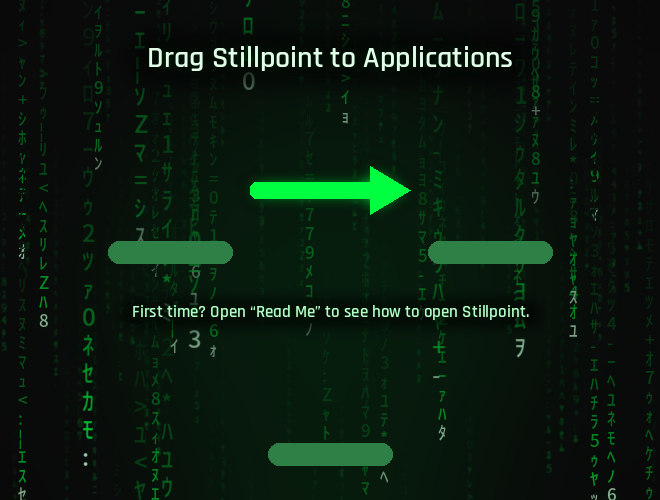
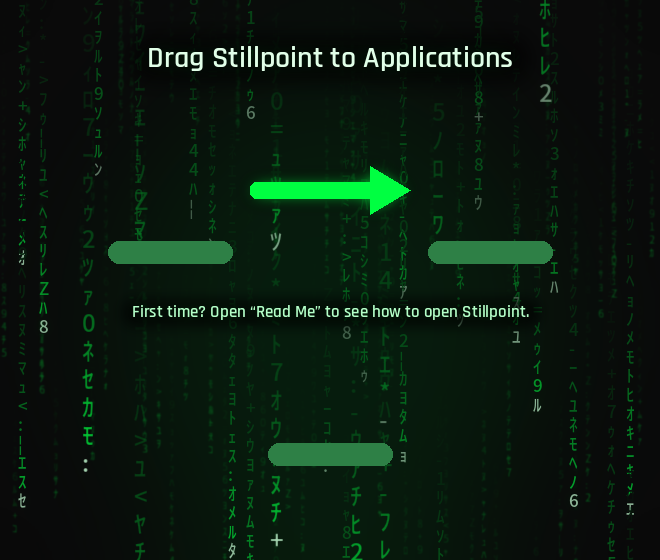
fix(release): taller dmg window (560 pt) so the Read Me name is visible
The window height includes the title bar and the Finder path bar.

Claude-Session: https://claude.ai/code/session_01Lw62sEH6vu6xxge8ok66p6

diff --git a/scripts/make_installer_art.py b/scripts/make_installer_art.py
@@ -39,8 +39,10 @@ G1, G2, G3, G4, G5 = (0, 255, 65), (0, 204, 51), (0, 153, 38), (0, 102, 25), (0,
 HEAD = (200, 255, 214)
 GLYPHS = [chr(c) for c in range(0xFF66, 0xFF9E)] + list("0123456789") + list("Z:=*+-<>¦")
 
-# Janela do .dmg, em pontos (o arquivo @2x tem o dobro)
-DMG_W, DMG_H = 660, 500
+# Janela do .dmg, em pontos (o arquivo @2x tem o dobro). A altura inclui a barra de título
+# (~32 pt) e, se a pessoa usa, a barra de caminho do Finder (~28 pt): com 560, o Read Me
+# aparece inteiro nos dois casos (medido no macOS 26 em 2026-10-14).
+DMG_W, DMG_H = 660, 560
 APP_POS, APPS_POS, README_POS = (170, 190), (490, 190), (330, 392)
 ICON_SIZE = 96
 

diff --git a/scripts/build_release.py b/scripts/build_release.py
@@ -65,7 +65,7 @@ SETUP_NAME = f"{PROJECT_NAME}-{VERSION}-{PLATFORM}-setup"   # o Inno Setup acres
 DMGBUILD_REQUIREMENT = "dmgbuild>=1.6.5,<1.7"
 # Posições dos ícones na janela do .dmg (pontos); iguais às de scripts/make_installer_art.py
 DMG_LAYOUT = {
-    "window": (660, 500),
+    "window": (660, 560),   # inclui barra de título e barra de caminho do Finder
     "icon_size": 96,
     "positions": {"Stillpoint.app": (170, 190), "Applications": (490, 190), "Read Me.pdf": (330, 392)},
 }

diff --git a/ROADMAP.md b/ROADMAP.md
@@ -103,6 +103,9 @@ Visual aprovado em 2026-10-14 (fundo do `.dmg`, imagens do instalador de Windows
   registro "pBBk", que o dmgbuild grava até a 1.6.6 (a 1.6.7 corrige, mas exige Python 3.10+;
   o do Mac é 3.9). Corrigido no script: o registro é desligado e o `.dmg` pronto é conferido
   (falha se o fundo não estiver certo). Nomes sem extensão (".app", ".pdf") na janela.
+- 2º teste no Mac: fundo aparecendo. A janela ficou baixa: a altura do `.dmg` inclui a
+  barra de título (~32 pt) e a barra de caminho do Finder (~28 pt), que cortavam o nome do
+  Read Me. Janela e fundo passaram de 500 para 560 pt de altura.
 - Aguardando novo teste no Mac e o primeiro no Windows.
 
 ### Critério para fechar uma etapa
